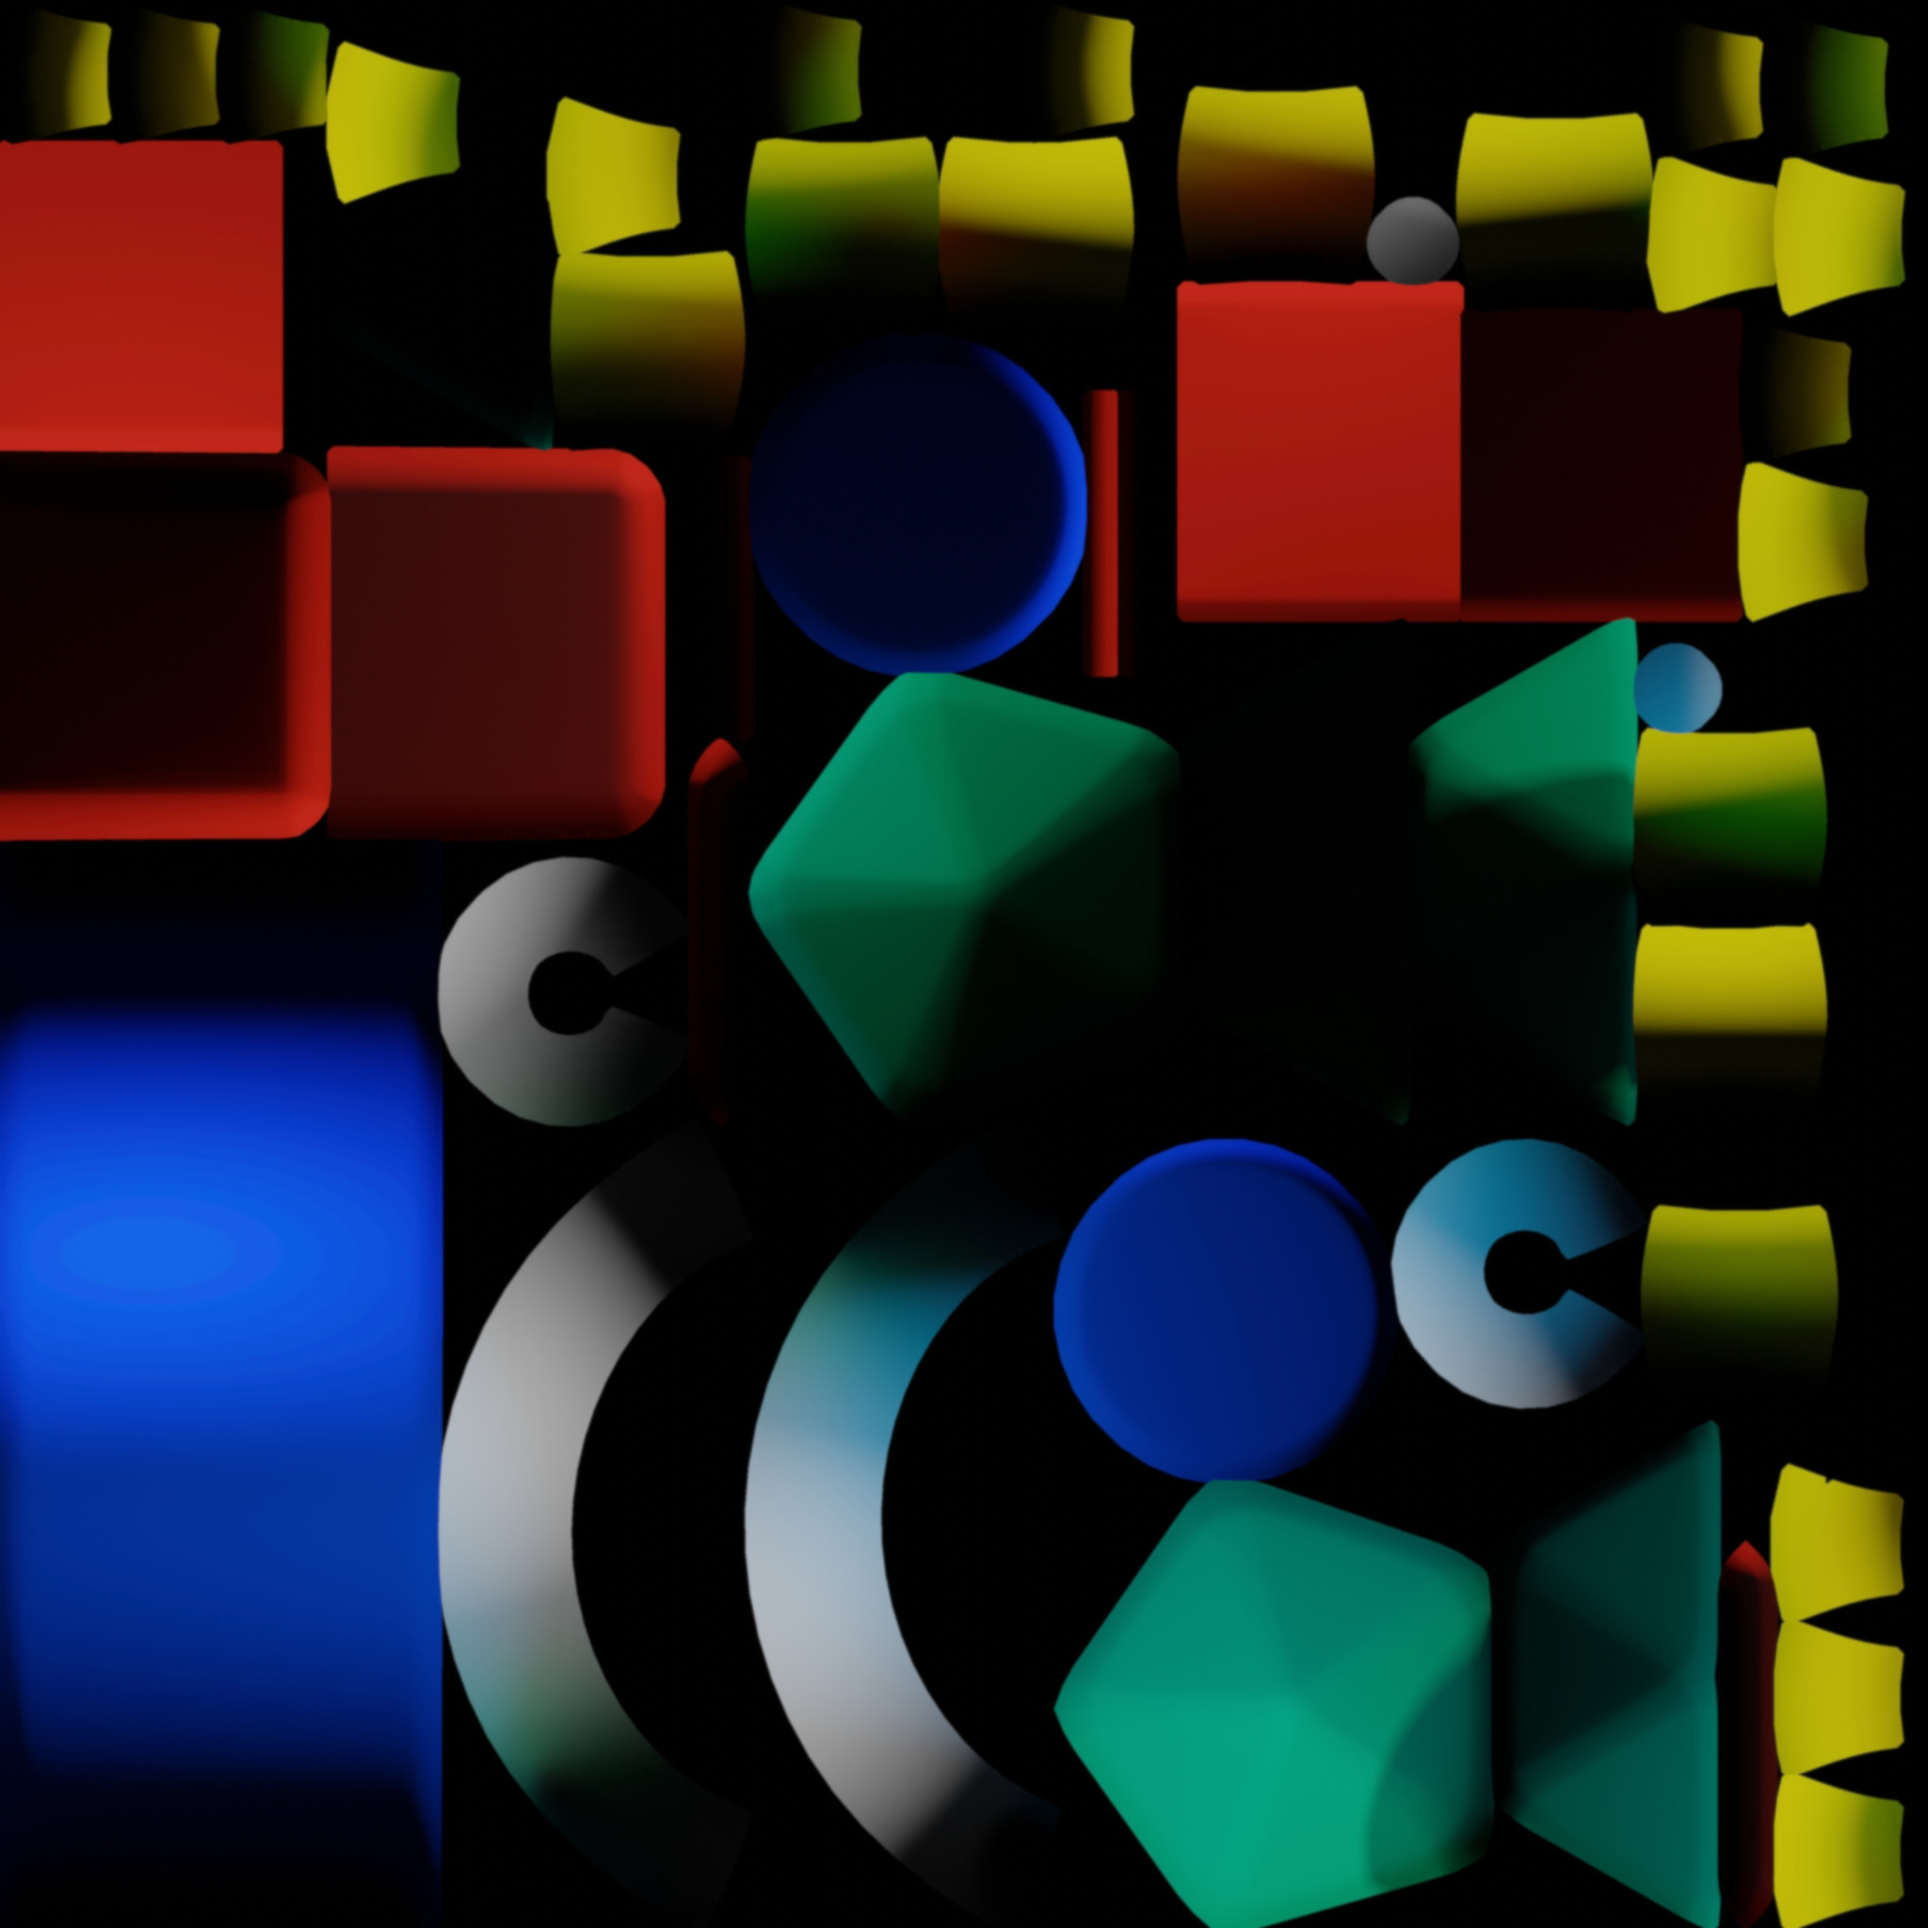
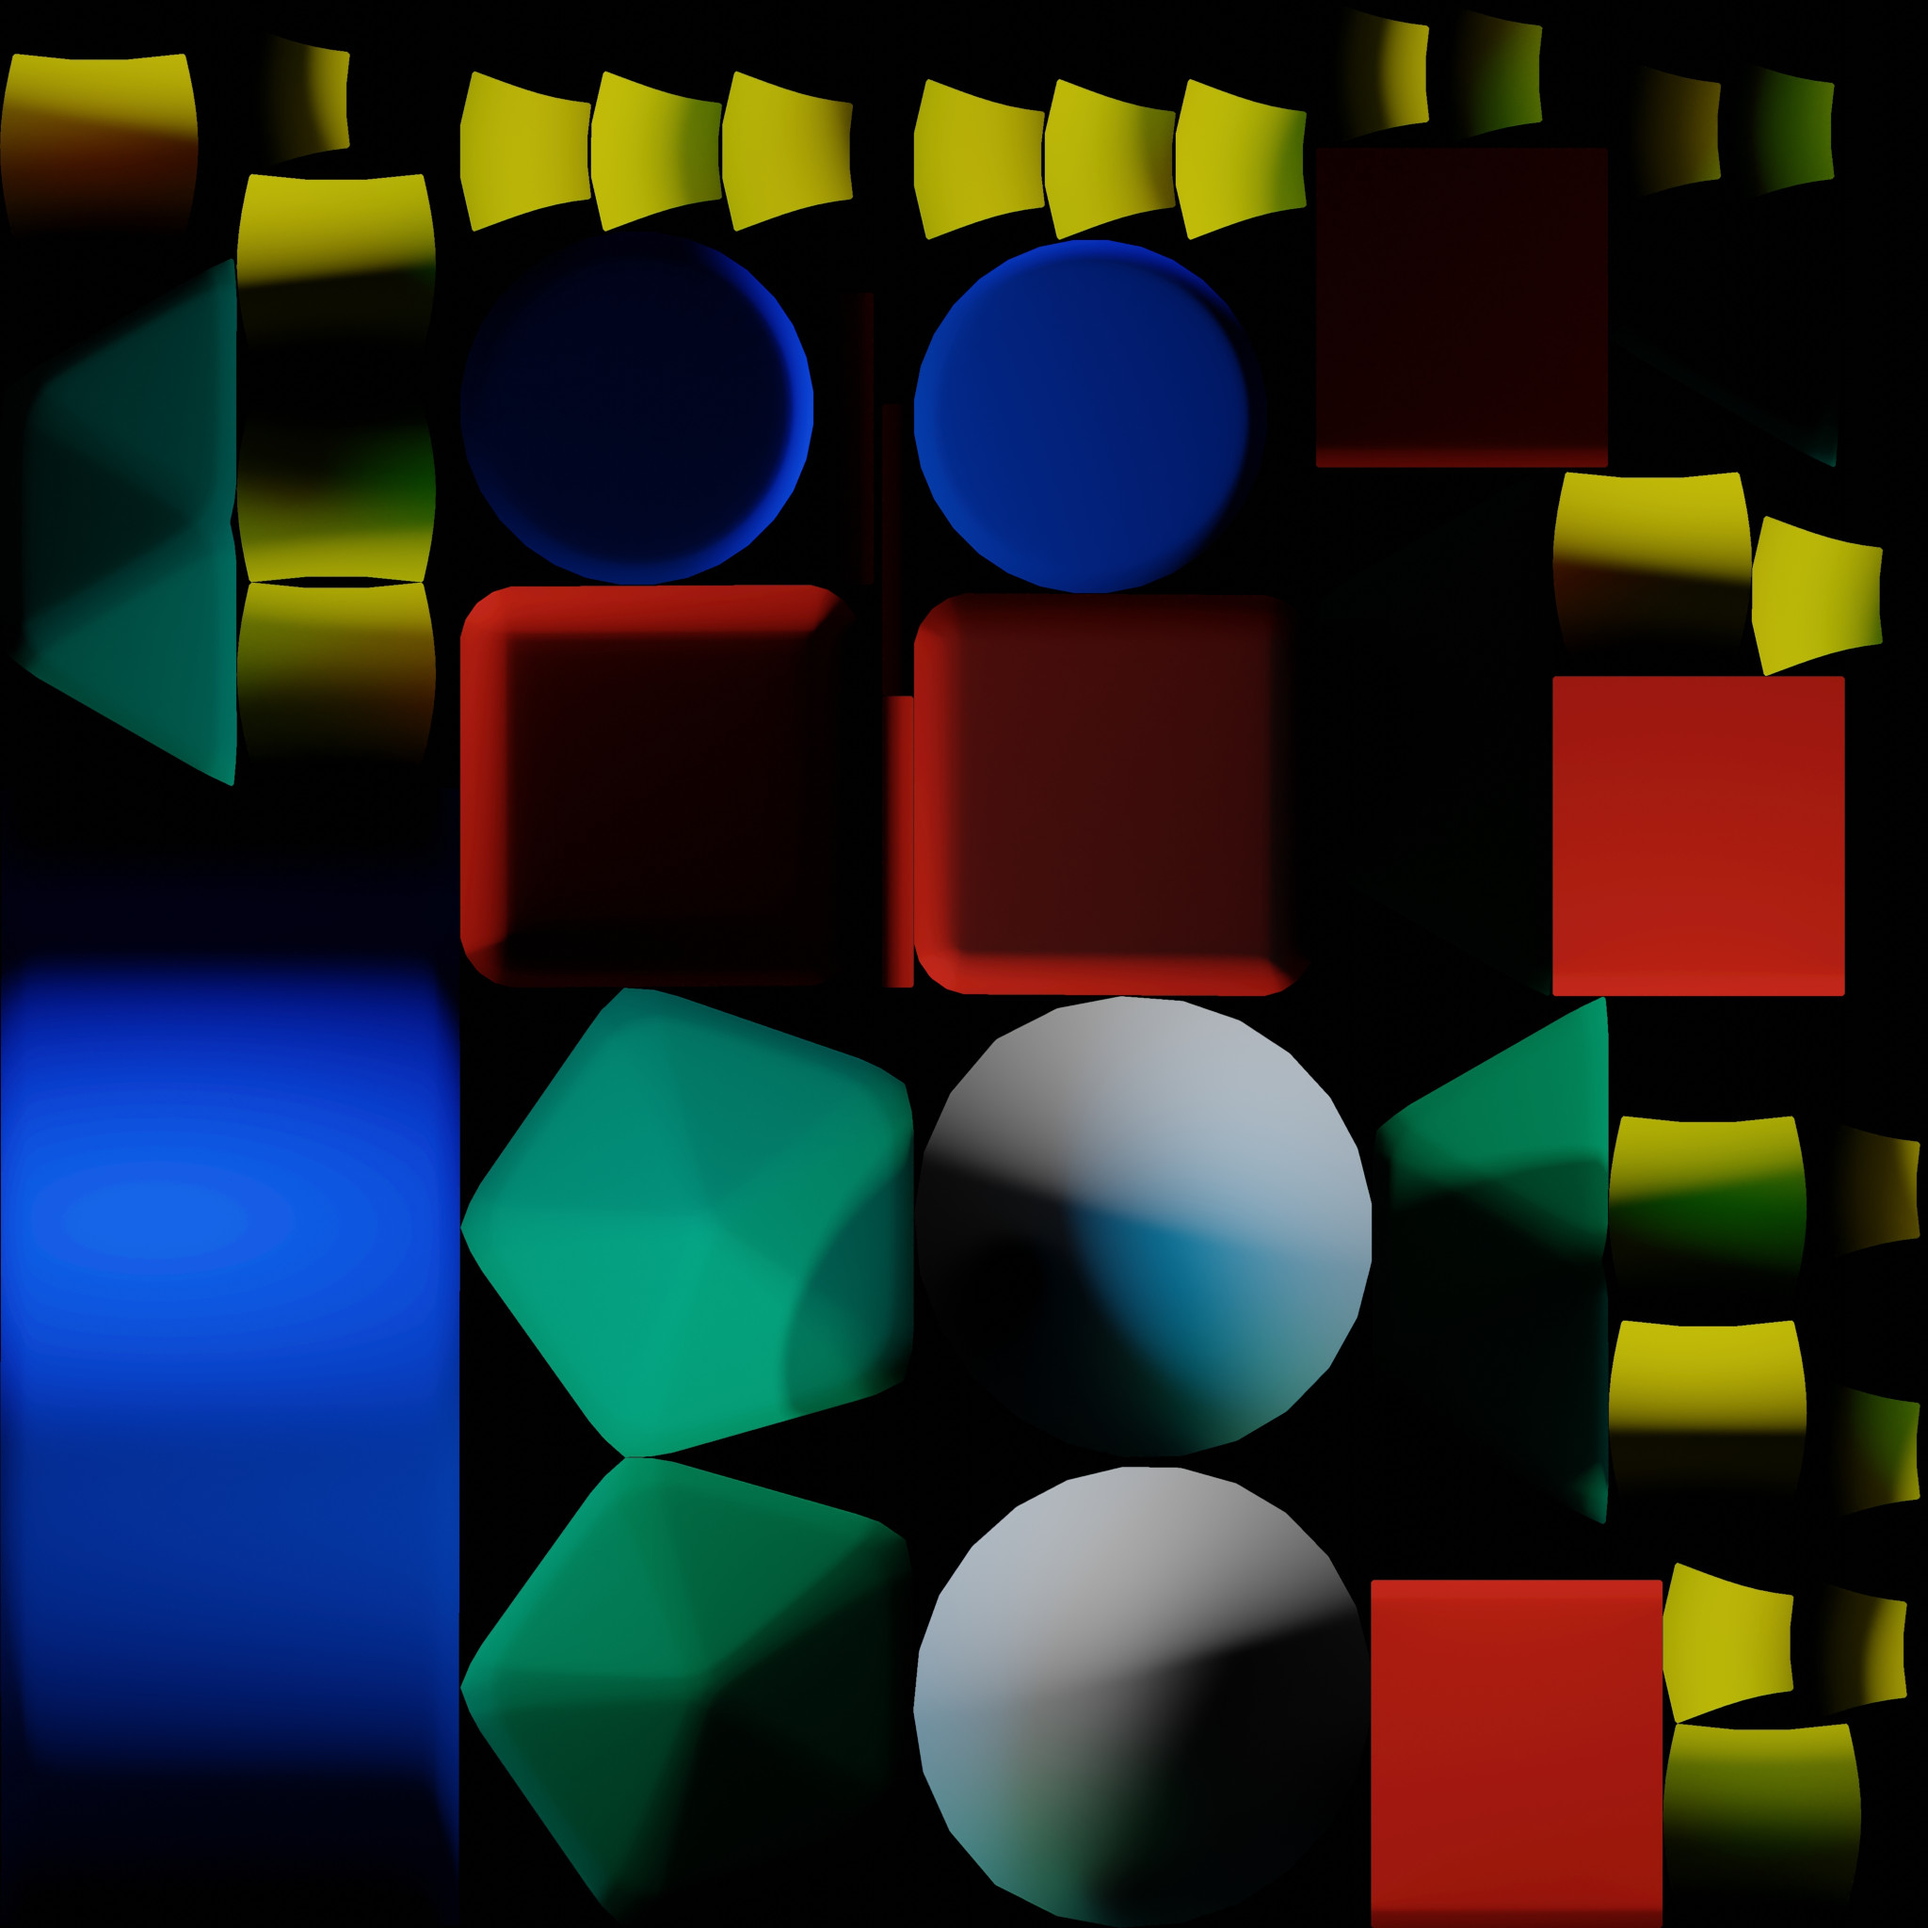
fix texture artifact

diff --git a/src/script.js b/src/script.js
@@ -3,11 +3,10 @@ import * as THREE from 'three'
 import { OrbitControls } from 'three/examples/jsm/controls/OrbitControls.js'
 import { GLTFLoader } from 'three/examples/jsm/loaders/GLTFLoader.js'
 import { DRACOLoader } from 'three/examples/jsm/loaders/DRACOLoader.js'
+import { OBJLoader } from 'three/examples/jsm/loaders/OBJLoader.js'
 import Stats from 'stats.js'
 // import * as dat from 'dat.gui'
 import gsap from 'gsap'
-
-import { RectAreaLightHelper } from 'three/examples/jsm/helpers/RectAreaLightHelper.js'
 
 
 
@@ -120,19 +119,28 @@ const loadingManager = new THREE.LoadingManager(
 
 const textureLoader = new THREE.TextureLoader(loadingManager)
 
-const texture_bake1 = textureLoader.load("/gltf/bake1.jpg")
+const texture_bake1 = textureLoader.load("gltf/bake1.jpg")
 texture_bake1.flipY = false
 texture_bake1.encoding = THREE.sRGBEncoding
+texture_bake1.minFilter = THREE.LinearFilter
 
-const texture_bake1_mask = textureLoader.load("/gltf/bake1_mask.jpg")
 
-const texture_bake2 = textureLoader.load("/gltf/bake2.jpg")
+
+// const texture_bake1_mask = textureLoader.load("gltf/bake1_mask.jpg")
+// texture_bake1_mask.minFilter = THREE.LinearFilter
+
+const texture_bake2 = textureLoader.load("gltf/bake2.jpg")
 texture_bake2.flipY = false
 texture_bake2.encoding = THREE.sRGBEncoding
+texture_bake2.minFilter = THREE.LinearFilter
 
-const texture_bake3 = textureLoader.load("/gltf/bake3.jpg")
+
+
+const texture_bake3 = textureLoader.load("gltf/bake3.jpg")
 texture_bake3.flipY = false
 texture_bake3.encoding = THREE.sRGBEncoding
+texture_bake3.minFilter = THREE.LinearFilter
+
 
 // const texture_color = textureLoader.load("/concrete/vjctbag_2K_Albedo.jpg")
 // const texture_ao = textureLoader.load("/concrete/vjctbag_2K_AO.jpg")
@@ -159,7 +167,7 @@ texture_bake3.encoding = THREE.sRGBEncoding
 // ])
 // environmentMAp.encoding = THREE.sRGBEncoding
 // scene.background = environmentMAp
-scene.background = new THREE.Color( 0x000000 )
+// scene.background = new THREE.Color( 0x111111 )
 // scene.environment = environmentMAp
 
 
@@ -175,12 +183,41 @@ dracoLoader.setDecoderPath('draco/')
 
 // GLTF Materials
 
-const  bake1Material = new THREE.MeshBasicMaterial({map: texture_bake1, alphaMap: texture_bake1_mask, transparent: true})
+const  bake1Material = new THREE.MeshBasicMaterial({ map: texture_bake1, side: THREE.FrontSide})
+const  bake1BackSideMaterial = new THREE.MeshBasicMaterial({color: 0x000000, side: THREE.BackSide})
 const  bake2Material = new THREE.MeshBasicMaterial({map: texture_bake2})
 const  bake3Material = new THREE.MeshBasicMaterial({map: texture_bake3})
 
 const lightBlueMaterial = new THREE.MeshBasicMaterial({color: 0x00B8FF})
 const lightWhiteMaterial = new THREE.MeshBasicMaterial({color: 0xFFFFFF})
+
+
+// OBJ Loader
+
+// const objLoader = new OBJLoader(loadingManager)
+
+// objLoader.load("obj/scene.obj",
+//     (obj) => {
+//         console.log(obj)
+        
+//         const lightBlueMesh = obj.children.find(child => child.name == "light_blue")
+//         const lightWhiteMesh = obj.children.find(child => child.name == "light_white")
+//         const planeMesh = obj.children.find(child => child.name == "Plane")
+//         const objectsMesh = obj.children.find(child => child.name == "objects")
+//         const lightsMesh = obj.children.find(child => child.name == "lights")
+
+//         lightBlueMesh.material = lightBlueMaterial
+//         lightWhiteMesh.material = lightWhiteMaterial
+//         planeMesh.material = bake1Material
+//         objectsMesh.material = bake2Material
+//         lightsMesh.material = bake3Material
+
+        
+//         scene.add(obj)
+
+//     })
+
+
 
 
 // GLTF Loader
@@ -194,53 +231,23 @@ gltfLoader.load(
 
         const lightBlueMesh = gltf.scene.children.find(child => child.name == "light_blue")
         const lightWhiteMesh = gltf.scene.children.find(child => child.name == "light_white")
-        const planeMesh = gltf.scene.children.find(child => child.name == "Plane")
+        const planeMesh = gltf.scene.children.find(child => child.name == "plane")
+        const planeBackSideMesh = gltf.scene.children.find(child => child.name == "plane_back")
         const objectsMesh = gltf.scene.children.find(child => child.name == "objects")
         const lightsMesh = gltf.scene.children.find(child => child.name == "lights")
 
         lightBlueMesh.material = lightBlueMaterial
         lightWhiteMesh.material = lightWhiteMaterial
         planeMesh.material = bake1Material
+        planeBackSideMesh.material = bake1BackSideMaterial
         objectsMesh.material = bake2Material
         lightsMesh.material = bake3Material
+
         
-        // const children = [...gltf.scene.children]
-    
-        // for( const child of children){
-
-            // if(child.name == "Plane"){
-            //     child.material = bake1Material
-
-            // }else if (child.name == "objects"){
-            //     child.material = bake2Material
-
-            // }else if (child.name == "light_blue"){
-            //     child.material = lightBlueMaterial
-            
-            // }else if (child.name == "light_white"){
-            //     child.material = lightWhiteMaterial
-
-            // }else {
-            //     child.material = bake3Material
-            // }
-        // }
-
-
-
+        // objectsMesh.geometry.drawRange(1,10)
         console.log(gltf.scene.children)
         scene.add(gltf.scene)
-
-        // updateMaterials()
     }
-    // () => {
-    //     console.log("success")
-    // },
-    // () => {
-    //     console.log("progress")
-    // },
-    // () => {
-    //     console.log("error")
-    // }
 )
 
 /**
@@ -402,12 +409,13 @@ window.addEventListener("dblclick", () => {
  */
 const renderer = new THREE.WebGLRenderer({
     canvas: canvas,
-    antialias: true
+    antialias: true,
+    alpha: true
 })
 renderer.setSize(sizes.width, sizes.height)
 renderer.setPixelRatio(Math.min(window.devicePixelRatio, 2))
-// renderer.physicallyCorrectLights = true
 renderer.outputEncoding = THREE.sRGBEncoding
+// renderer.physicallyCorrectLights = true
 renderer.toneMapping = THREE.ReinhardToneMapping
 renderer.toneMappingExposure = 1
 

diff --git a/src/style.css b/src/style.css
@@ -3,10 +3,14 @@
     padding: 0;
 }
 
-html,
+html{
+    background: #000000;
+}
+
+/* html,
 body{
     overflow: hidden;
-}
+} */
 
 .webgl{
     position: fixed;
@@ -16,10 +20,10 @@ body{
 }
 
 .loading_bar{
- position:absolute;
+ position:fixed;
  bottom: 0%;
  width:100%;
- height: 1%;
+ height: 2%;
  background-color: #00504a;
  transform-origin: top left;
  transition: transform 1.5s;
@@ -31,4 +35,23 @@ body{
     transform-origin: top right;
     transition: transform 0.75s ease-in-out;
     transform: scaleX(0);
+}
+
+.section
+{
+    display: flex;
+    align-items: center;
+    height: 100vh;
+    position: relative;
+    font-family: 'Cabin', sans-serif;
+    color: #c0c0c0;
+    text-transform: uppercase;
+    font-size: 6vmin;
+    padding-left: 10%;
+    padding-right: 10%;
+}
+
+section:nth-child(odd)
+{
+    justify-content: flex-end;
 }

diff --git a/src/index.html b/src/index.html
@@ -7,6 +7,16 @@
 </head>
 <body>
     <canvas class="webgl"></canvas>
+    <section class="section">
+        <h1>My Portfolio</h1>
+    </section>
+    <section class="section">
+        <h2>My projects</h2>
+    </section>
+    <section class="section">
+        <h2>Contact me</h2>
+    </section>
+    
     <div class="loading_bar"></div>
 </body>
 </html>
